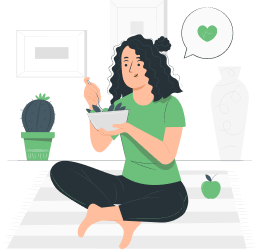
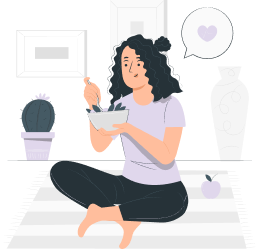
all

diff --git a/lib/feature/auth/login_page.dart b/lib/feature/auth/login_page.dart
@@ -1,10 +1,11 @@
 import 'package:flutter/material.dart';
 import 'package:google_fonts/google_fonts.dart';
 import 'package:intl_phone_field/intl_phone_field.dart';
+import 'package:messmate_user/feature/auth/otpscreen.dart';
+import 'package:messmate_user/feature/auth/signup_page.dart';
 
 import '../../core/constants/colorconstant.dart';
 import '../../core/localvariables.dart';
-
 
 class LoginPage extends StatefulWidget {
   const LoginPage({super.key});
@@ -20,48 +21,50 @@ class _LoginPageState extends State<LoginPage> {
     return Scaffold(
       backgroundColor: ColorConstant.whiteColor,
       body: Padding(
-        padding: const EdgeInsets.only(left: 12.0,right: 12.0),
+        padding: const EdgeInsets.only(left: 12.0, right: 12.0),
         child: SingleChildScrollView(
           physics: AlwaysScrollableScrollPhysics(),
           child: SizedBox(
-            height: height*1,
-            width: width*1,
+            height: height * 1,
+            width: width * 1,
             child: Column(
               mainAxisAlignment: MainAxisAlignment.spaceEvenly,
               crossAxisAlignment: CrossAxisAlignment.center,
               children: [
-              SizedBox(
-                height: height*0.18,
-                width: width*0.9,
-                child: Column(
-                  crossAxisAlignment: CrossAxisAlignment.start,
-                  mainAxisAlignment: MainAxisAlignment.spaceBetween,
-                  children: [
-                    Text(
-                      "Welcome\nBack!",
-                      style: GoogleFonts.montserrat(
-                          fontSize: width * 0.1, color: ColorConstant.primaryColor,fontWeight: FontWeight.w600),
-                    ),
-                    Text(
-                      "Enter your Login details to get you",
-                      style: GoogleFonts.montserrat(color: ColorConstant.blackColor),
-                    ),
-                  ],
+                SizedBox(
+                  height: height * 0.18,
+                  width: width * 0.9,
+                  child: Column(
+                    crossAxisAlignment: CrossAxisAlignment.start,
+                    mainAxisAlignment: MainAxisAlignment.spaceBetween,
+                    children: [
+                      Text(
+                        "Welcome\nBack!",
+                        style: GoogleFonts.montserrat(
+                            fontSize: width * 0.1,
+                            color: ColorConstant.primaryColor,
+                            fontWeight: FontWeight.w600),
+                      ),
+                      Text(
+                        "Enter your Login details to get you",
+                        style: GoogleFonts.montserrat(
+                            color: ColorConstant.blackColor),
+                      ),
+                    ],
+                  ),
                 ),
-              ),
                 IntlPhoneField(
                   decoration: InputDecoration(
                     counterText: "",
-                    labelText: 'Country Code',
-                    labelStyle: const TextStyle(color: ColorConstant.primaryColor),
+                    labelText: 'Phone number',
+                    labelStyle:
+                        const TextStyle(color: ColorConstant.primaryColor),
                     enabledBorder: OutlineInputBorder(
                       borderSide: const BorderSide(
                           color: ColorConstant.primaryColor, width: 1.5),
                       borderRadius: BorderRadius.circular(8.0),
                     ),
-                    border: OutlineInputBorder(
-                      borderSide: BorderSide()
-                    ),
+                    border: OutlineInputBorder(borderSide: BorderSide()),
                     focusedBorder: OutlineInputBorder(
                       borderSide: const BorderSide(
                           color: ColorConstant.primaryColor, width: 2.0),
@@ -77,61 +80,78 @@ class _LoginPageState extends State<LoginPage> {
                     print('Phone number: ${phone.completeNumber}');
                   },
                 ),
-                Container(
-                  height: height * 0.06,
-                  width: width * 0.7,
-                  decoration: BoxDecoration(
-                      color: ColorConstant.primaryColor,
-                      borderRadius: BorderRadius.circular(width * 0.09)),
-                  child: Center(
-                      child: Text("Next",
-                          style: GoogleFonts.montserrat(
-                              color: ColorConstant.whiteColor,
-                              fontSize: width * 0.04,
-                              fontWeight: FontWeight.bold))),
+                GestureDetector(
+                  onTap: () {
+                    Navigator.push(
+                        context,
+                        MaterialPageRoute(
+                          builder: (context) => OtpScreen(),
+                        ));
+                  },
+                  child: Container(
+                    height: height * 0.06,
+                    width: width * 0.7,
+                    decoration: BoxDecoration(
+                        color: ColorConstant.primaryColor,
+                        borderRadius: BorderRadius.circular(width * 0.09)),
+                    child: Center(
+                      child: Text(
+                        "Next",
+                        style: GoogleFonts.montserrat(
+                            color: ColorConstant.whiteColor,
+                            fontSize: width * 0.04,
+                            fontWeight: FontWeight.bold),
+                      ),
+                    ),
+                  ),
                 ),
                 SizedBox(
-                  height: height*0.11,
-                  width: width*0.4,
+                  height: height * 0.11,
+                  width: width * 0.4,
                   child: Column(
                     mainAxisAlignment: MainAxisAlignment.spaceBetween,
                     children: [
-                      Text("Or login with",style: GoogleFonts.montserrat(color: Colors.grey),),
+                      Text(
+                        "Or login with",
+                        style: GoogleFonts.montserrat(color: Colors.grey),
+                      ),
                       Row(
                         mainAxisAlignment: MainAxisAlignment.spaceEvenly,
                         children: [
-                          Container(
-                            height: height*0.05,
-                            width: width*0.1,
-                           decoration: BoxDecoration(
-                             color: ColorConstant.whiteColor,
-                             boxShadow: [
-                               BoxShadow(
-                                 color: Colors.grey.shade200,
-                                 offset: Offset(0, 2),
-                                 spreadRadius: 2,
-                                 blurRadius: 1
-                               )
-                             ]
-                           ),
-                           child: Center(
-                             child: Image.asset("assets/images/GoogleLogo.png"),
-                           ),
+                          GestureDetector(
+                            onTap: () {
+
+                            },
+                            child: Container(
+                              height: height * 0.05,
+                              width: width * 0.1,
+                              decoration: BoxDecoration(
+                                  color: ColorConstant.whiteColor,
+                                  boxShadow: [
+                                    BoxShadow(
+                                        color: Colors.grey.shade200,
+                                        offset: Offset(0, 2),
+                                        spreadRadius: 2,
+                                        blurRadius: 1)
+                                  ]),
+                              child: Center(
+                                child:
+                                    Image.asset("assets/images/GoogleLogo.png"),
+                              ),
+                            ),
                           ),
                           Container(
-                            height: height*0.05,
-                            width: width*0.1,
+                            height: height * 0.05,
+                            width: width * 0.1,
                             decoration: BoxDecoration(
                                 color: ColorConstant.whiteColor,
                                 boxShadow: [
                                   BoxShadow(
                                       color: Colors.grey.shade200,
-                                       offset: Offset(0, 2),
+                                      offset: Offset(0, 2),
                                       spreadRadius: 2,
-                                      blurRadius: 1
-                                  )
-                                ]
-                            ),
+                                      blurRadius: 1)
+                                ]),
                             child: Center(
                               child: Image.asset("assets/images/iosLogo.png"),
                             ),
@@ -142,13 +162,31 @@ class _LoginPageState extends State<LoginPage> {
                   ),
                 ),
                 SizedBox(
-                  height: height*0.04,
-                  width: width*0.64,
+                  height: height * 0.04,
+                  width: width * 0.68,
                   child: Row(
                     mainAxisAlignment: MainAxisAlignment.spaceBetween,
                     children: [
-                      Text("Dont't have an account?",style: GoogleFonts.montserrat(),),
-                      Text("Sign up",style: GoogleFonts.montserrat(color: ColorConstant.primaryColor,fontWeight: FontWeight.bold,fontSize: width*0.04),)
+                      Text(
+                        "Dont't have an account?",
+                        style: GoogleFonts.montserrat(),
+                      ),
+                      GestureDetector(
+                        onTap: () {
+                          Navigator.push(
+                              context,
+                              MaterialPageRoute(
+                                builder: (context) => SignupPage(),
+                              ));
+                        },
+                        child: Text(
+                          "Sign up",
+                          style: GoogleFonts.montserrat(
+                              color: ColorConstant.primaryColor,
+                              fontWeight: FontWeight.bold,
+                              fontSize: width * 0.04),
+                        ),
+                      )
                     ],
                   ),
                 )

diff --git a/lib/feature/homescreen/location.dart b/lib/feature/homescreen/location.dart
@@ -1,9 +1,7 @@
 import 'package:flutter/material.dart';
 import 'package:geocoding/geocoding.dart';
-import 'package:geolocator/geolocator.dart' as geo;  // Alias for Geolocator
+import 'package:geolocator/geolocator.dart' as geo;
 import 'package:google_fonts/google_fonts.dart';
-import 'package:introduction_screen/introduction_screen.dart';
-import 'package:location/location.dart';
 import 'package:messmate_user/core/constants/colorconstant.dart';
 import 'package:messmate_user/core/localvariables.dart';
 
@@ -16,7 +14,7 @@ class LocationScreen extends StatefulWidget {
 
 class _LocationScreenState extends State<LocationScreen> {
   bool selectedAddress = false;
-  String selectedOption = "Home";
+  String selectedOption ="Home";
 
   String currentAddress = "Fetching location...";
 
@@ -28,21 +26,23 @@ class _LocationScreenState extends State<LocationScreen> {
 
   Future<void> getLocation() async {
     try {
-      geo.LocationPermission permission = await geo.Geolocator.checkPermission();
-      if (permission == geo.LocationPermission.denied || permission == geo.LocationPermission.deniedForever) {
+      geo.LocationPermission permission =
+          await geo.Geolocator.checkPermission();
+      if (permission == geo.LocationPermission.denied ||
+          permission == geo.LocationPermission.deniedForever) {
         permission = await geo.Geolocator.requestPermission();
       }
 
       geo.Position position = await geo.Geolocator.getCurrentPosition(
           desiredAccuracy: geo.LocationAccuracy.high);
 
-      List<Placemark> placemarks = await placemarkFromCoordinates(position.latitude, position.longitude);
+      List<Placemark> placemarks =
+          await placemarkFromCoordinates(position.latitude, position.longitude);
 
       Placemark place = placemarks[0];
       setState(() {
         currentAddress = "${place.locality}, ${place.country}";
       });
-
     } catch (e) {
       print(e);
       setState(() {
@@ -51,8 +51,7 @@ class _LocationScreenState extends State<LocationScreen> {
     }
   }
 
-
-@override
+  @override
   Widget build(BuildContext context) {
     return Scaffold(
       appBar: AppBar(
@@ -77,7 +76,7 @@ class _LocationScreenState extends State<LocationScreen> {
         padding: const EdgeInsets.all(8.0),
         child: SingleChildScrollView(
           child: SizedBox(
-            height: height*0.87,
+            height: height * 0.87,
             width: width,
             child: Column(
               crossAxisAlignment: CrossAxisAlignment.start,
@@ -153,7 +152,7 @@ class _LocationScreenState extends State<LocationScreen> {
                     ),
                   ],
                 ),
-                  const Divider(),
+                const Divider(),
                 Row(
                   mainAxisAlignment: MainAxisAlignment.center,
                   children: [
@@ -161,8 +160,9 @@ class _LocationScreenState extends State<LocationScreen> {
                     Text(
                       "Add new address",
                       style: GoogleFonts.montserrat(
-                        decoration:TextDecoration.underline,
-                          fontWeight: FontWeight.w600, fontSize: width * 0.04),
+                          decoration: TextDecoration.underline,
+                          fontWeight: FontWeight.w600,
+                          fontSize: width * 0.04),
                     )
                   ],
                 ),
@@ -241,7 +241,8 @@ class _LocationScreenState extends State<LocationScreen> {
                                   borderRadius:
                                       BorderRadius.circular(width * 0.04)),
                               child: Row(
-                                mainAxisAlignment: MainAxisAlignment.spaceAround,
+                                mainAxisAlignment:
+                                    MainAxisAlignment.spaceAround,
                                 children: [
                                   const Icon(
                                     Icons.my_location_rounded,
@@ -273,7 +274,6 @@ class _LocationScreenState extends State<LocationScreen> {
                       },
                     ),
                     const Text("Home"),
-
                     Radio<String>(
                       value: "Office",
                       groupValue: selectedOption,
@@ -284,7 +284,6 @@ class _LocationScreenState extends State<LocationScreen> {
                       },
                     ),
                     const Text("Office"),
-
                     Radio<String>(
                       value: "Other",
                       groupValue: selectedOption,
@@ -316,14 +315,12 @@ class _LocationScreenState extends State<LocationScreen> {
                     ),
                   ),
                 ),
-                Align(
-                    alignment: Alignment.center,
-                    child:Text(currentAddress)
+                Align(alignment: Alignment.center, child: Text(currentAddress)
                     // _locationData != null
-                //         ? Text("Latitude: ${_locationData!.latitude}\n"
-                //         "Longitude: ${_locationData!.longitude}")
-                //         : Text("Press the button to get location"),
-                )
+                    //         ? Text("Latitude: ${_locationData!.latitude}\n"
+                    //         "Longitude: ${_locationData!.longitude}")
+                    //         : Text("Press the button to get location"),
+                    )
               ],
             ),
           ),

diff --git a/lib/core/constants/colorconstant.dart b/lib/core/constants/colorconstant.dart
@@ -3,7 +3,7 @@ import 'dart:ui';
 class ColorConstant{
   static const primaryColor=Color(0xff4D306A);
   static const categoryColor=Color(0xffdad4e0);
-  static const indicatorColor=Color(0xff80D08D);
+  static const indicatorColor=Color(0xffAE93CB);
   static const whiteColor=Color(0xffFFFFFF);
   static const blackColor=Color(0xff000000);
   static const lightblackColor=Color(0xff303030);

diff --git a/lib/main.dart b/lib/main.dart
@@ -27,7 +27,7 @@ class MyApp extends StatelessWidget {
     width=MediaQuery.of(context).size.width;
     return const MaterialApp(
       debugShowCheckedModeBanner: false,
-      home: LocationScreen(),
+      home: SplashScreen(),
     );
   }
 }
